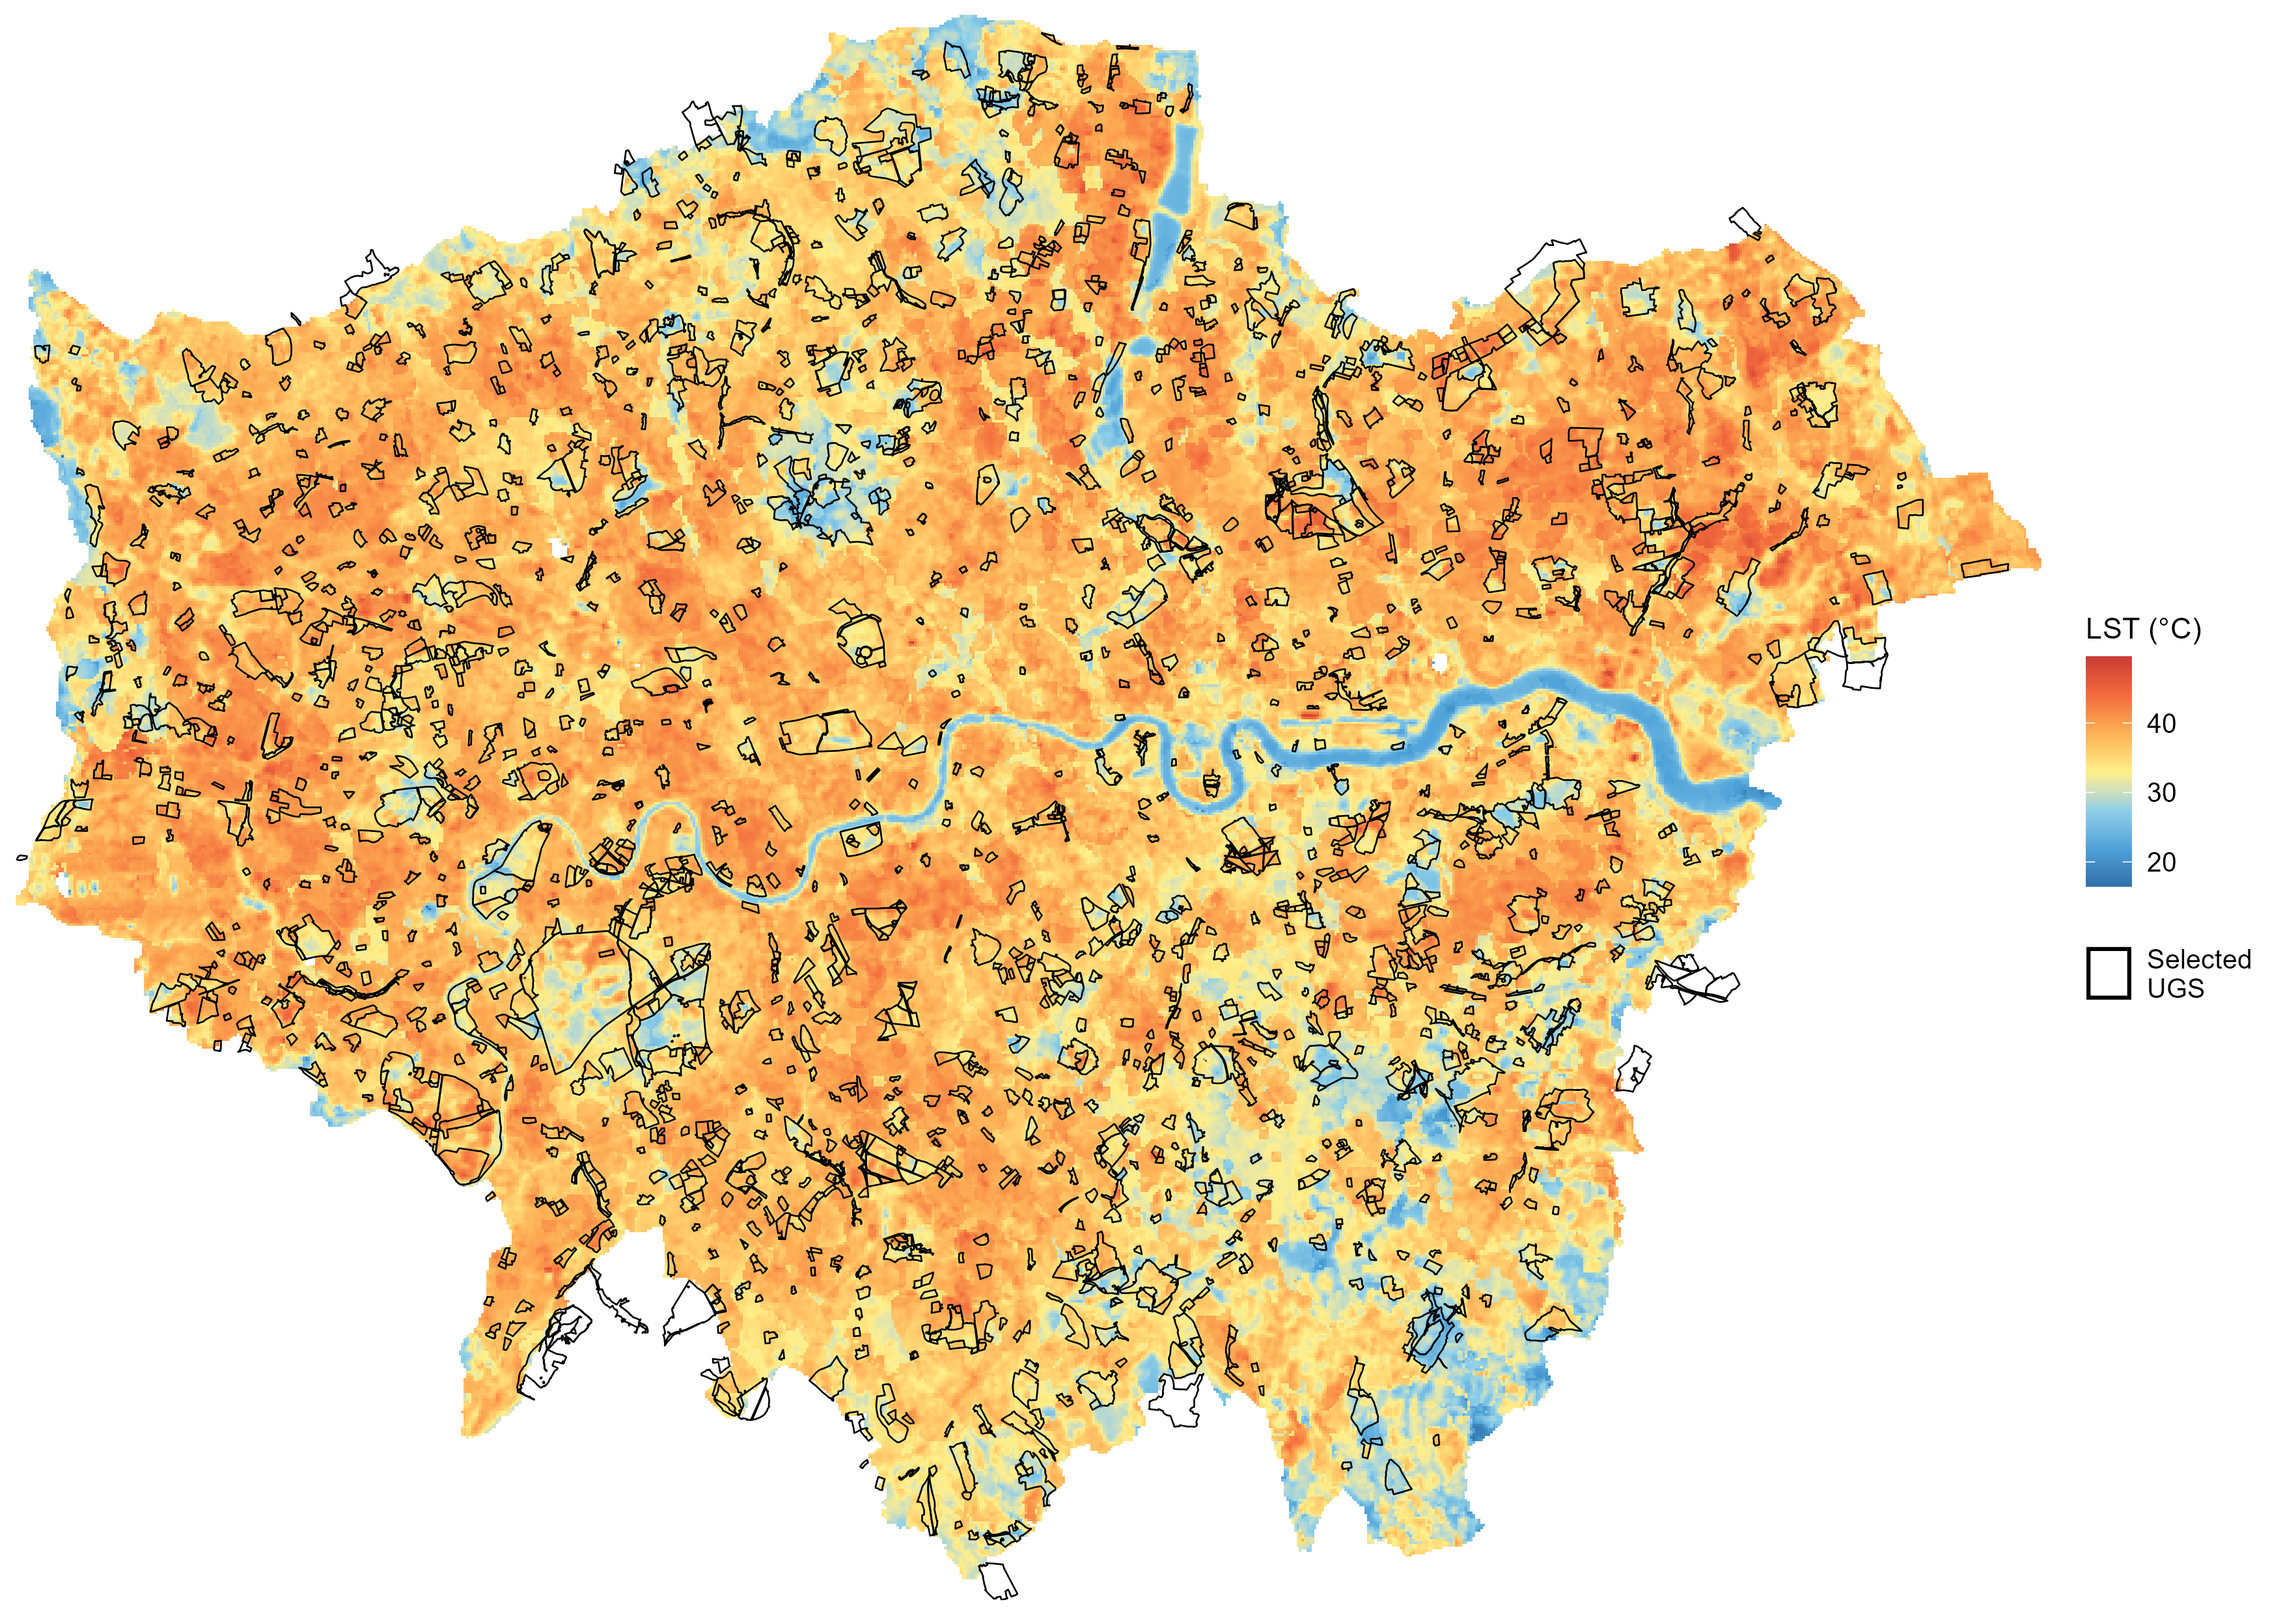
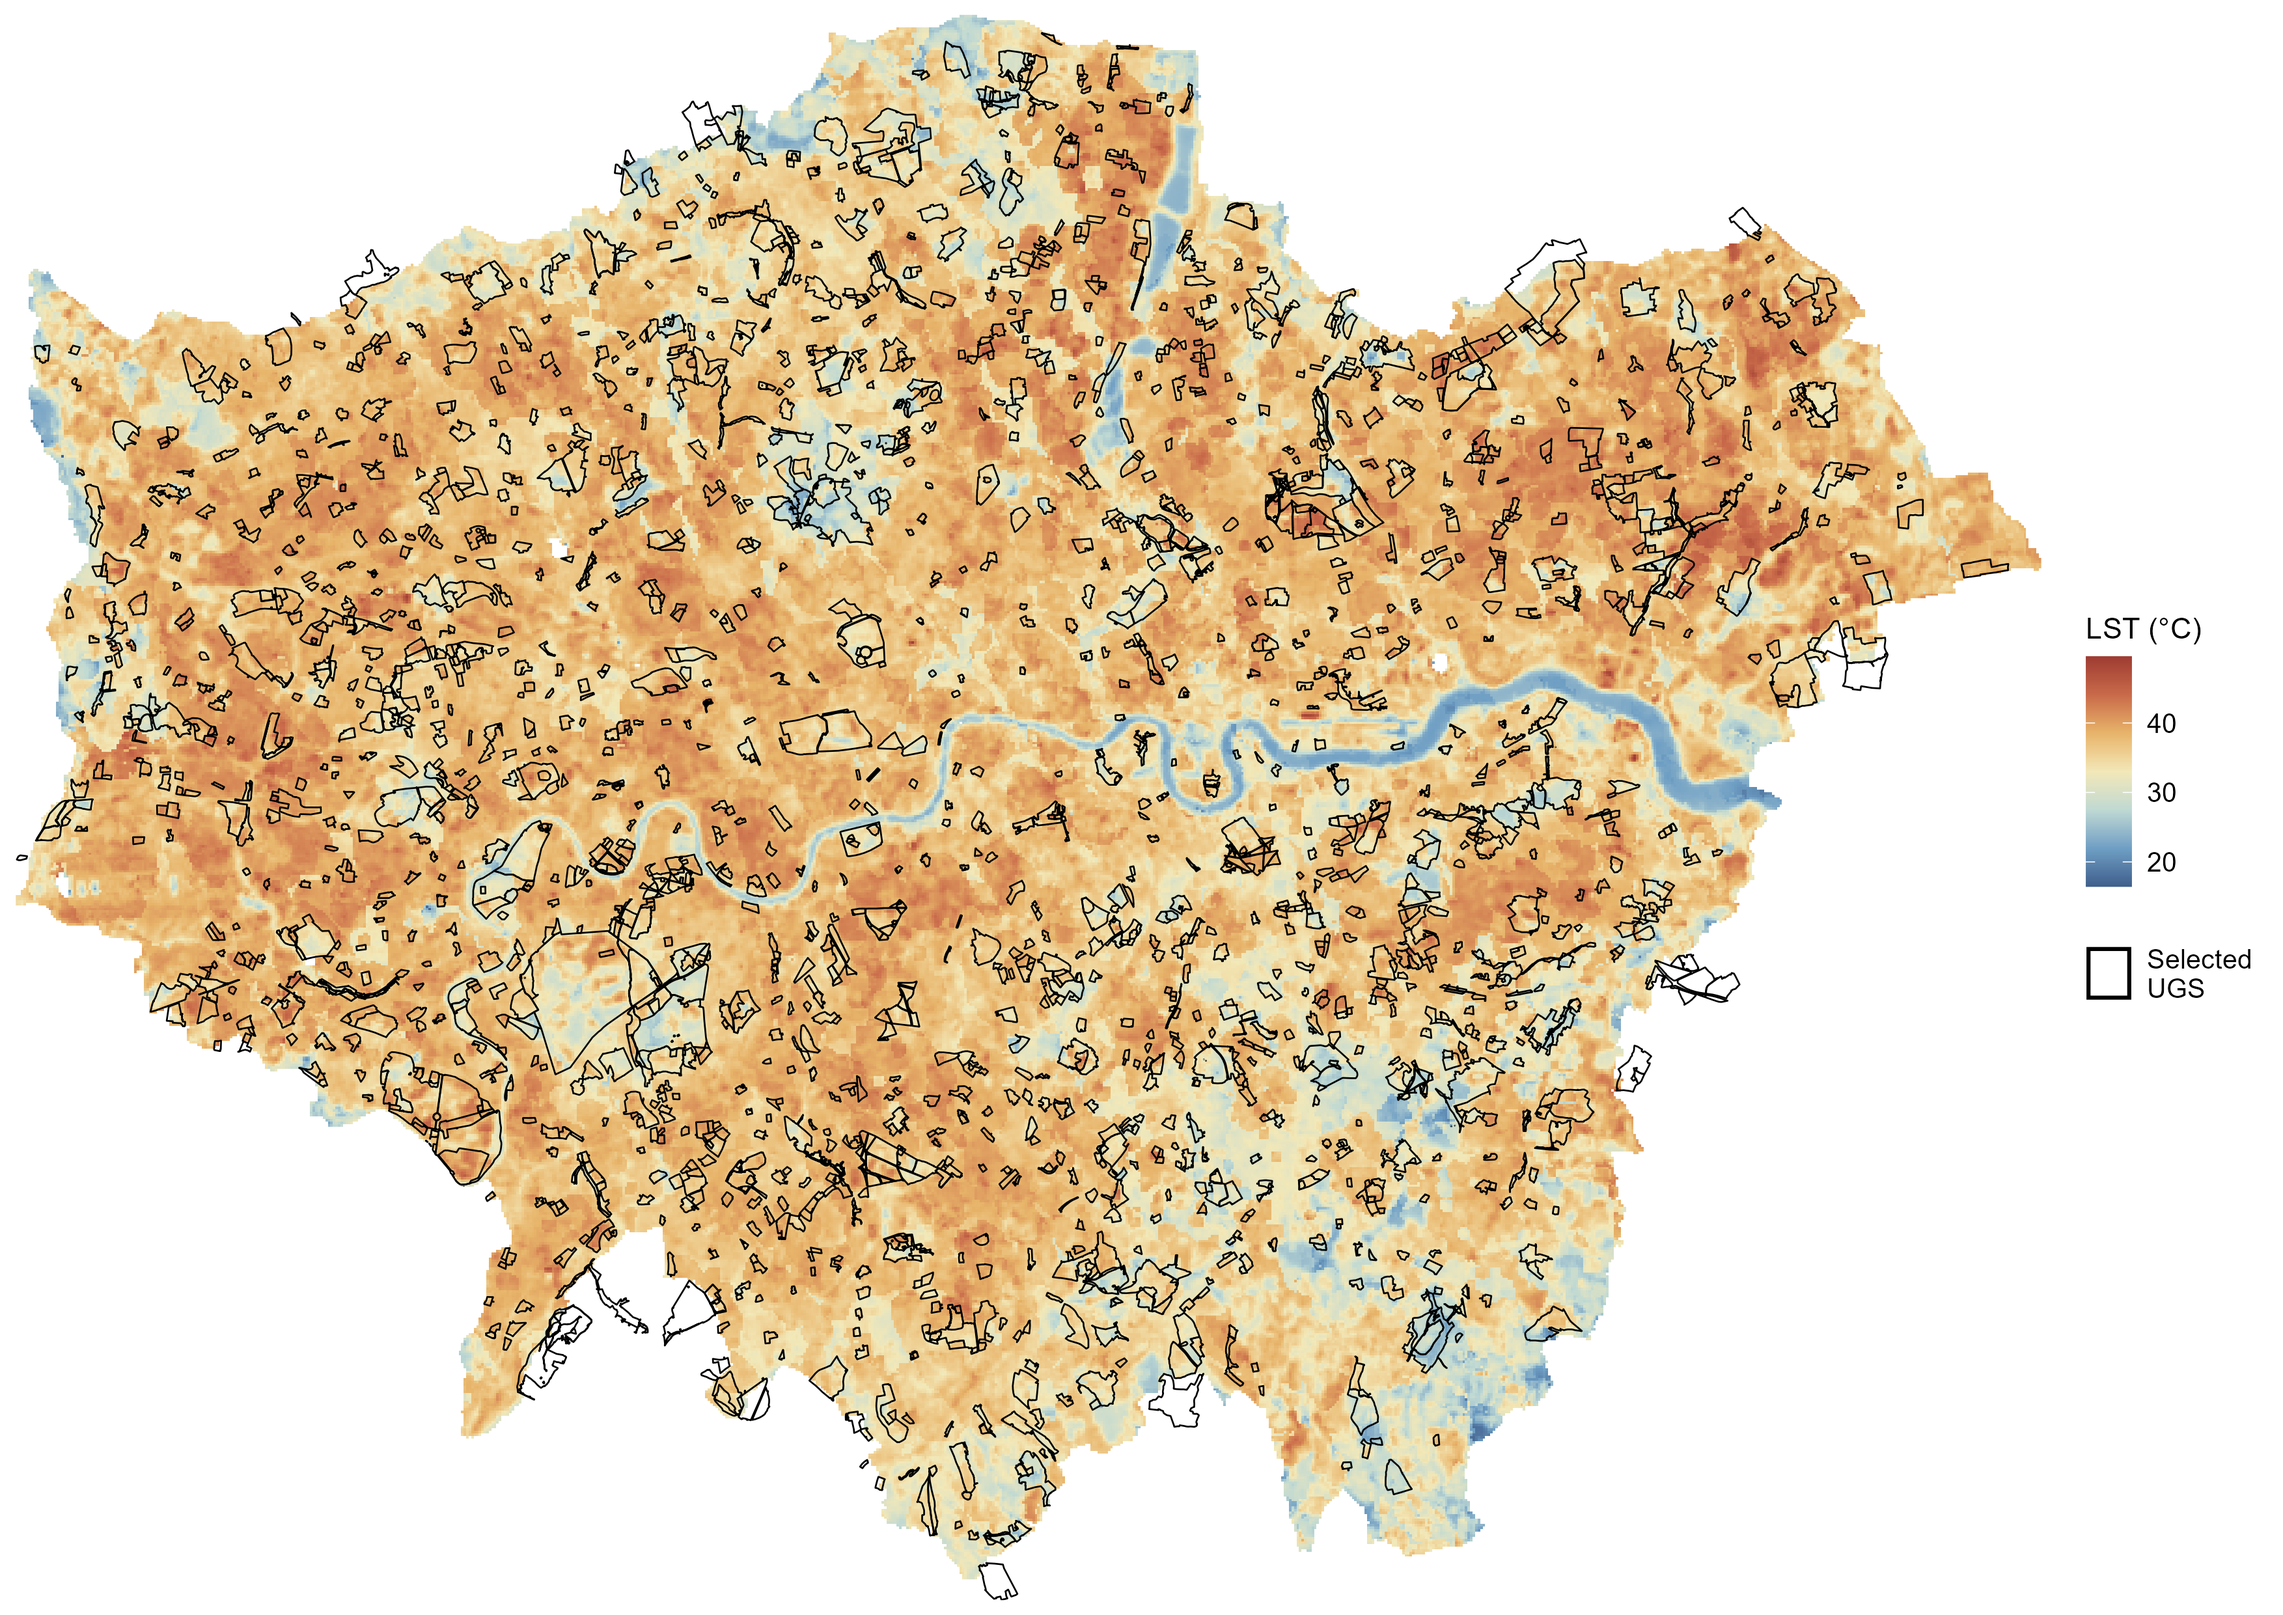
commit

diff --git a/README.md b/README.md
@@ -15,7 +15,7 @@
 |Polygons/ Points|OS Open Greenspace|Accessible greenspace and its access points (parks, playing fields, etc.)|[View Link](https://www.ordnancesurvey.co.uk/products/os-open-greenspace)|Identify greenspace polygons for GEE, accessibility routing destination of greenspace access points|
 |Points|Lower layer Super Output Areas (December 2021) EW Population Weighted Centroids|LSOA population weighted centroids points|[View Link](https://geoportal.statistics.gov.uk/search?tags=population%2520weighted%2520centroid)|London LSOA centroids for origins for accessibility analysis|
 |Polygons|Greater London Boundary|Greater London Boundary|[View Link](https://data.london.gov.uk/dataset/statistical-gis-boundary-files-for-london-20od9/)|Filter/ clip boundaries to London|
-|Polygons|Lower layer Super Output Areas (December 2021) EW |LSOA Boundaries|[View Link]()|Filtered for London LSOAs only|
+|Polygons|Lower layer Super Output Areas (December 2021) EW |LSOA Boundaries|[View Link](https://geoportal.statistics.gov.uk/datasets/2bbaef5230694f3abae4f9145a3a9800_0/explore?location=52.837550%2C-2.489483%2C6)|Filtered for London LSOAs only|
 |Socioeconomic data|Indicies of Multiple Depriviation (IMD 2025)|LSOA-level deprivation indicies for England|[View Link](https://www.gov.uk/government/statistics/english-indices-of-deprivation-2025)|Socioeconomic vulnerability and compare accessibility to cool greenspace across more/ less deprived neighbourhoods|
 |Socioeconomic data|Census Data||||
 
